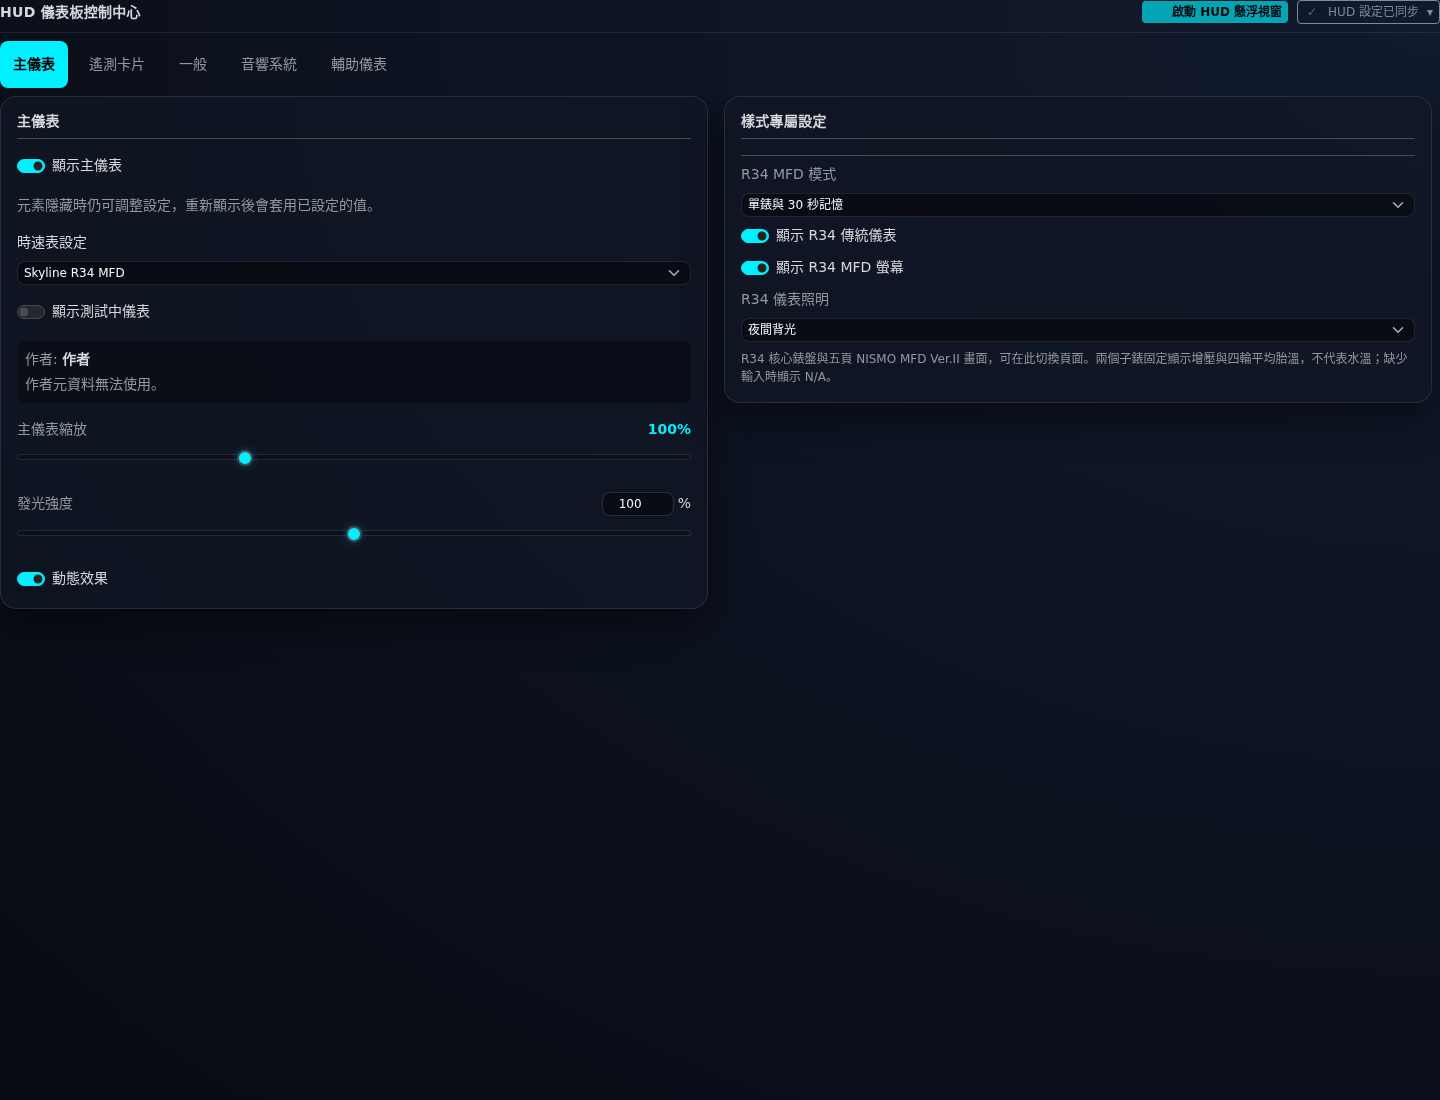
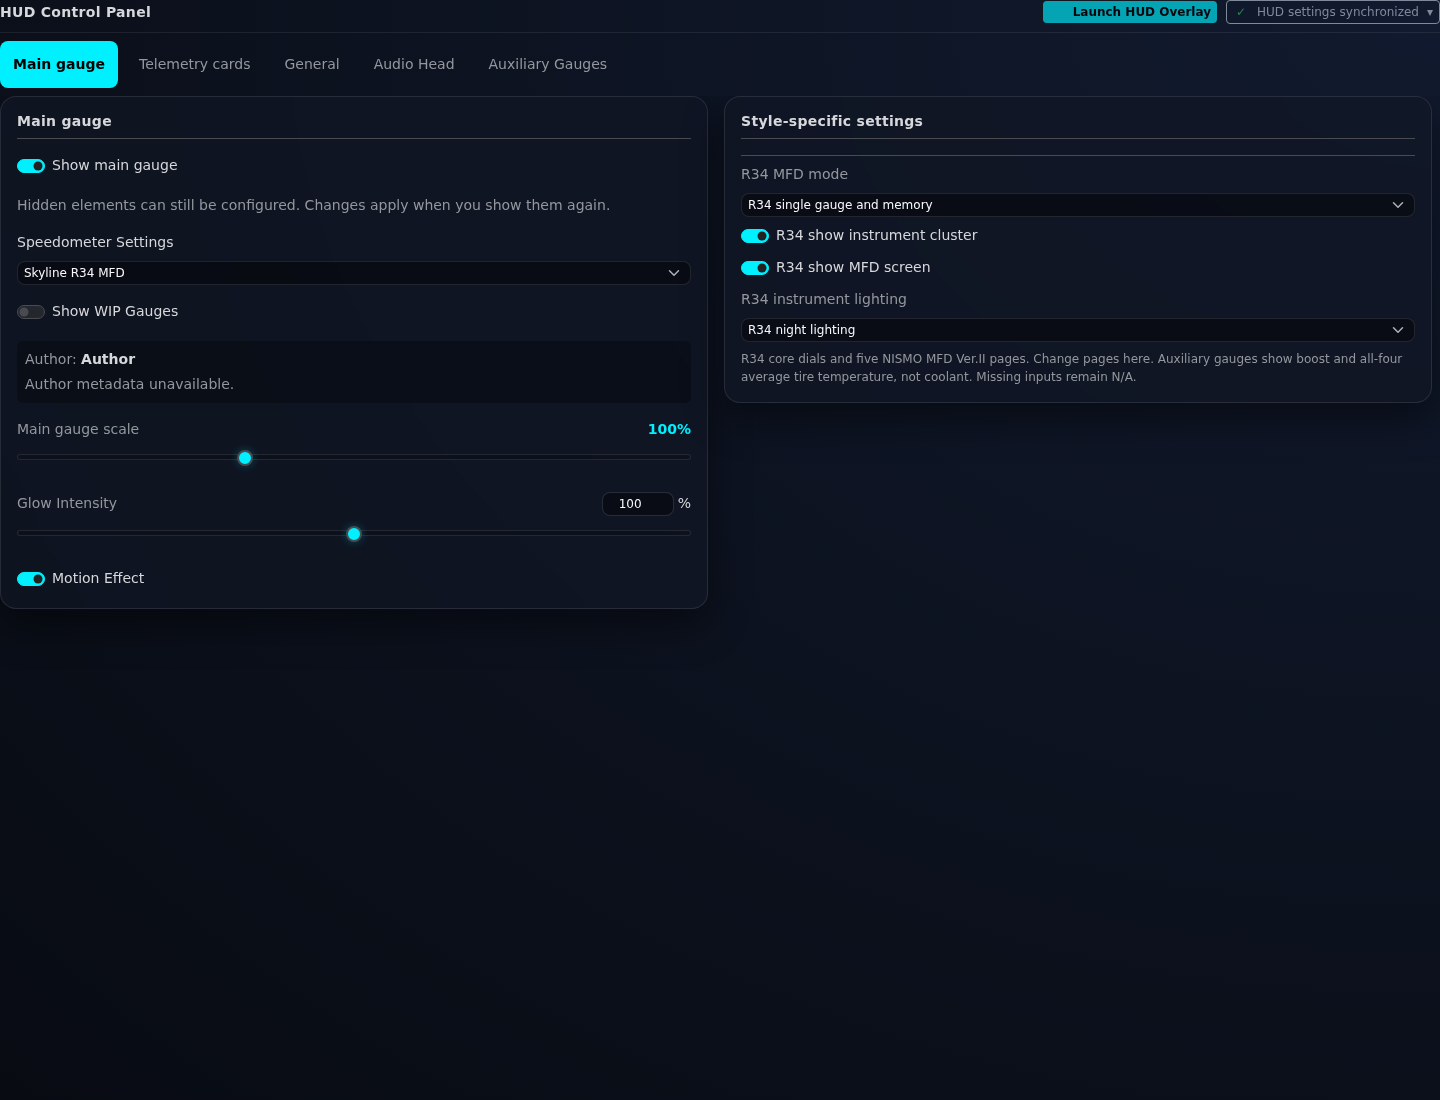
fix(hud): decouple R34 MFD visibility from showCenterInfo with dedicated r34ShowMfd key

diff --git a/hud_overlay/r34_mfd/tests/unit/model.test.ts b/hud_overlay/r34_mfd/tests/unit/model.test.ts
@@ -5,7 +5,7 @@ import { describe, expect, it } from 'vitest';
 // @ts-expect-error Standalone browser JS is tested through its runtime contract.
 import { FrameInterpolator } from '../../../shared/frame-interpolator.js';
 const sandbox: Record<string, any> = {};
-for (const file of ['model.js', 'instruments.js']) runInNewContext(readFileSync(resolve(import.meta.dirname, '../../', file), 'utf8'), sandbox);
+for (const file of ['model.js', 'instruments.js', 'lcd-format.js', 'renderer.js']) runInNewContext(readFileSync(resolve(import.meta.dirname, '../../', file), 'utf8'), sandbox);
 const M = sandbox.R34Model, I = sandbox.R34Instruments;
 const packet = (patch = {}) => ({ TimestampMS: 1000, CarOrdinal: 34, IsRaceOn: 1, CurrentEngineRpm: 6000, EngineMaxRpm: 9000,
   SpeedMetersPerSecond: 50, Gear: 4, Boost: 14.5038, AccelInput: 128, BrakeInput: 0, Fuel: .5,
@@ -428,5 +428,60 @@ describe('R34 dual-LCD unit and independent power channels', () => {
     expect(M.units({ unit: 'mph' }, {}).speed).toBe('mph');
     expect(M.units({ effectiveUnits: { speed: 'kmh' }, unit: 'mph' }, {}).speed).toBe('kmh');
     expect(M.units({ units: { speed: 'invalid' } }, {}).speed).toBe('kmh');
+  });
+});
+
+describe('R34 configuration normalization', () => {
+  it('normalizes r34ShowMfd independently and defaults to true', () => {
+    expect(M.normalizeConfig({})).toEqual({
+      r34MfdMode: 'single',
+      r34ShowCluster: true,
+      r34ShowMfd: true,
+      r34Lighting: 'night',
+    });
+    expect(M.normalizeConfig({ r34ShowMfd: false })).toEqual({
+      r34MfdMode: 'single',
+      r34ShowCluster: true,
+      r34ShowMfd: false,
+      r34Lighting: 'night',
+    });
+    expect(M.normalizeConfig({ r34ShowMfd: 'false' })).toEqual({
+      r34MfdMode: 'single',
+      r34ShowCluster: true,
+      r34ShowMfd: true,
+      r34Lighting: 'night',
+    });
+  });
+
+  it('decouples MFD visibility from elements.showCenterInfo', () => {
+    const r = Object.create(sandbox.R34Renderer.prototype);
+    r.nodes = {
+      r34Container: { dataset: {}, style: { setProperty() {} } },
+      r34Cluster: {},
+      r34Mfd: {},
+      r34ModeTitle: {},
+      r34ModeNote: {},
+      r34TachFace: { style: {} },
+      r34TachNeedle: { style: {} },
+      r34SpeedFace: { style: {} },
+      r34SpeedNeedle: { style: {} },
+      r34DigitalSpeedGroup: { style: {} },
+      r34GearGroup: { style: {} },
+      r34LcdDivider: { style: {} },
+    };
+    r.pages = [];
+    r.updatePalette = () => {};
+
+    // 1. showCenterInfo: false does NOT hide MFD
+    r.configure({ elements: { showCenterInfo: false } });
+    expect(r.nodes.r34Mfd.hidden).toBe(false);
+
+    // 2. r34ShowMfd: false hides MFD even when showCenterInfo is true
+    r.configure({ r34ShowMfd: false, elements: { showCenterInfo: true } });
+    expect(r.nodes.r34Mfd.hidden).toBe(true);
+
+    // 3. r34ShowMfd: true shows MFD even when showCenterInfo is false
+    r.configure({ r34ShowMfd: true, elements: { showCenterInfo: false } });
+    expect(r.nodes.r34Mfd.hidden).toBe(false);
   });
 });

diff --git a/frontend/src/features/overlay_control/r34_mfd/config.test.ts b/frontend/src/features/overlay_control/r34_mfd/config.test.ts
@@ -4,21 +4,24 @@ import { normalizeHudRuntimeConfig, applyHudConfigPatch, createOverlayControlRun
 describe('R34 settings contract', () => {
   it('normalizes only its own style and never coerces string booleans', () => {
     const other = { hudStyle: 'vfd', r34MfdMode: 'future' }; expect(normalizeR34MfdConfig(other)).toBe(other);
-    expect(normalizeR34MfdConfig({ hudStyle: 'r34_mfd', r34ShowCluster: 'false', r34MfdMode: 'bad', r34Lighting: null })).toEqual({
-      hudStyle: 'r34_mfd', r34ShowCluster: true, r34MfdMode: 'single', r34Lighting: 'night',
+    expect(normalizeR34MfdConfig({ hudStyle: 'r34_mfd', r34ShowCluster: 'false', r34ShowMfd: 'false', r34MfdMode: 'bad', r34Lighting: null })).toEqual({
+      hudStyle: 'r34_mfd', r34ShowCluster: true, r34ShowMfd: true, r34MfdMode: 'single', r34Lighting: 'night',
+    });
+    expect(normalizeR34MfdConfig({ hudStyle: 'r34_mfd', r34ShowMfd: false })).toEqual({
+      hudStyle: 'r34_mfd', r34ShowCluster: true, r34ShowMfd: false, r34MfdMode: 'single', r34Lighting: 'night',
     });
   });
   it.each(['single', 'twin', 'multi', 'g', 'lap'])('retains mode %s and unrelated config', mode => {
-    const config = normalizeHudRuntimeConfig({ hudStyle: 'r34_mfd', r34MfdMode: mode, r34ShowCluster: false, r34Lighting: 'day', futureField: 7 });
-    expect(config.r34MfdMode).toBe(mode); expect(config.r34ShowCluster).toBe(false); expect(config.futureField).toBe(7);
+    const config = normalizeHudRuntimeConfig({ hudStyle: 'r34_mfd', r34MfdMode: mode, r34ShowCluster: false, r34ShowMfd: false, r34Lighting: 'day', futureField: 7 });
+    expect(config.r34MfdMode).toBe(mode); expect(config.r34ShowCluster).toBe(false); expect(config.r34ShowMfd).toBe(false); expect(config.futureField).toBe(7);
     expect(applyHudConfigPatch(config, { r34Lighting: 'night' }).r34MfdMode).toBe(mode);
   });
   it('persists and broadcasts the same settings through the real runtime and survives refresh', async () => {
     let saved: any = { hudStyle: 'r34_mfd' }; const messages: any[] = [];
     const runtime = createOverlayControlRuntime({ readConfig: async () => ({ ok: true, json: async () => saved }),
       saveConfig: async value => { saved = structuredClone(value); return { ok: true, json: async () => ({ success: true }) }; } }, { postMessage: value => messages.push(value) });
-    await runtime.refresh(); await runtime.updateConfig({ r34MfdMode: 'lap', r34ShowCluster: false, r34Lighting: 'day' });
-    await runtime.refresh(); expect(saved.r34MfdMode).toBe('lap'); expect(runtime.getSnapshot().config.r34Lighting).toBe('day');
+    await runtime.refresh(); await runtime.updateConfig({ r34MfdMode: 'lap', r34ShowCluster: false, r34ShowMfd: false, r34Lighting: 'day' });
+    await runtime.refresh(); expect(saved.r34MfdMode).toBe('lap'); expect(saved.r34ShowMfd).toBe(false); expect(runtime.getSnapshot().config.r34Lighting).toBe('day');
     expect(JSON.stringify(messages)).toContain('"r34MfdMode":"lap"');
   });
 });

diff --git a/frontend/src/features/overlay_control/r34_mfd/R34MfdSettingsCard.tsx b/frontend/src/features/overlay_control/r34_mfd/R34MfdSettingsCard.tsx
@@ -1,9 +1,9 @@
 import { useId } from 'react';
-import type { HudConfig, HudElements } from '../hudConfig';
+import type { HudConfig } from '../hudConfig';
 import type { HudConfigPatch } from '../overlayControlRuntime';
 import { R34_MFD_MODES, type R34MfdMode, type R34Lighting } from './config';
 export function R34MfdSettingsCard({ config, onChange, t }: {
-  config: Pick<HudConfig, 'r34MfdMode' | 'r34ShowCluster' | 'r34Lighting'> & { elements: Pick<HudElements, 'showCenterInfo'> };
+  config: Pick<HudConfig, 'r34MfdMode' | 'r34ShowCluster' | 'r34ShowMfd' | 'r34Lighting'>;
   onChange: (patch: HudConfigPatch) => void;
   t: (key: string) => string;
 }) {
@@ -20,8 +20,8 @@ export function R34MfdSettingsCard({ config, onChange, t }: {
       <span className="form-check-label fs-7">{t('R34 show instrument cluster')}</span>
     </label>
     <label className="form-check form-switch m-0">
-      <input type="checkbox" className="form-check-input" checked={config.elements.showCenterInfo !== false}
-        onChange={event => onChange({ elements: { showCenterInfo: event.target.checked } })} />
+      <input type="checkbox" className="form-check-input" checked={config.r34ShowMfd !== false}
+        onChange={event => onChange({ r34ShowMfd: event.target.checked })} />
       <span className="form-check-label fs-7">{t('R34 show MFD screen')}</span>
     </label>
     <label htmlFor={`${id}-lighting`} className="form-label fs-7 text-body-secondary mb-0">{t('R34 instrument lighting')}</label>

diff --git a/hud_overlay/r34_mfd/renderer.js b/hud_overlay/r34_mfd/renderer.js
@@ -83,7 +83,9 @@
         var settings = M.normalizeConfig(config), nodes = this.nodes;
         nodes.r34Container.dataset.lighting = settings.r34Lighting;
         nodes.r34Container.dataset.cluster = settings.r34ShowCluster ? 'shown' : 'hidden';
+        nodes.r34Container.dataset.mfd = settings.r34ShowMfd ? 'shown' : 'hidden';
         nodes.r34Cluster.hidden = !settings.r34ShowCluster;
+        nodes.r34Mfd.hidden = !settings.r34ShowMfd;
         if (this.mode !== settings.r34MfdMode) {
             this.mode = settings.r34MfdMode;
             for (var i = 0; i < this.pages.length; i++) this.pages[i].hidden = this.pages[i].dataset.mode !== this.mode;
@@ -94,7 +96,6 @@
         nodes.r34Container.hidden = e.showGauge === false;
         // The full viewport is stationary; each instrument owns its independent anchor.
         nodes.r34Container.style.display = e.showGauge === false ? 'none' : 'block';
-        nodes.r34Mfd.hidden = e.showCenterInfo === false;
         nodes.r34TachFace.hidden = e.showRPM === false;
         nodes.r34TachNeedle.style.display = e.showRPM === false ? 'none' : '';
         nodes.r34SpeedFace.style.display = e.showSpeed === false ? 'none' : '';
@@ -233,4 +234,4 @@
         }
     };
     root.R34Renderer = Renderer;
-})(window);
+})(typeof window !== 'undefined' ? window : globalThis);

diff --git a/frontend/src/features/overlay_control/r34_mfd/config.ts b/frontend/src/features/overlay_control/r34_mfd/config.ts
@@ -8,12 +8,13 @@ export const R34_MFD_MODES = [
 ] as const;
 export type R34MfdMode = (typeof R34_MFD_MODES)[number]['value'];
 export type R34Lighting = 'day' | 'night';
-export function normalizeR34MfdConfig<T extends { hudStyle?: string; r34MfdMode?: unknown; r34ShowCluster?: unknown; r34Lighting?: unknown }>(config: T): T {
+export function normalizeR34MfdConfig<T extends { hudStyle?: string; r34MfdMode?: unknown; r34ShowCluster?: unknown; r34ShowMfd?: unknown; r34Lighting?: unknown }>(config: T): T {
   if (config.hudStyle !== R34_MFD_STYLE_ID) return config;
   return {
     ...config,
     r34MfdMode: R34_MFD_MODES.some(mode => mode.value === config.r34MfdMode) ? config.r34MfdMode : 'single',
     r34ShowCluster: typeof config.r34ShowCluster === 'boolean' ? config.r34ShowCluster : true,
+    r34ShowMfd: typeof config.r34ShowMfd === 'boolean' ? config.r34ShowMfd : true,
     r34Lighting: config.r34Lighting === 'day' ? 'day' : 'night',
   };
 }

diff --git a/frontend/src/features/overlay_control/panels/HudGaugeStyleSettings.tsx b/frontend/src/features/overlay_control/panels/HudGaugeStyleSettings.tsx
@@ -14,7 +14,7 @@ import { S650_HMI_STYLE_ID, S650_HMI_THEMES, S650_CENTER_WIDGETS, type S650HmiTh
 export type HudGaugeStyleConfig = Pick<HudConfig,
   'hudStyle' | 'followAppUnits' | 'units' | 's650Theme' | 's650CenterWidget' |
   'classicJdmTachStyle' | 'classicJdmShowTriple' | 'classicJdmAux1' | 'classicJdmAux2' | 'classicJdmDefiTheme' |
-  'r34MfdMode' | 'r34ShowCluster' | 'r34Lighting' | 'lfaManualExpand' | 'lfaAutoExpand' |
+  'r34MfdMode' | 'r34ShowCluster' | 'r34ShowMfd' | 'r34Lighting' | 'lfaManualExpand' | 'lfaAutoExpand' |
   'vfdVuOffset' | 'vfdAudioOffset' | 'nfsu2Face' | keyof import('../stack_st8100/config').StackSt8100Settings
 > & { elements: Pick<HudElements, 'showCenterInfo'> };
 interface HudGaugeStyleSettingsProps extends HudPanelActions {

diff --git a/frontend/src/features/overlay_control/hudConfig.ts b/frontend/src/features/overlay_control/hudConfig.ts
@@ -55,6 +55,7 @@ export interface HudConfig extends Partial<StackSt8100Settings> {
   classicJdmDefiTheme?: ClassicJdmDefiTheme;
   r34MfdMode?: R34MfdMode;
   r34ShowCluster?: boolean;
+  r34ShowMfd?: boolean;
   r34Lighting?: R34Lighting;
   auxGaugeFaces?: ('aem' | 'greddy' | 'blitz' | 'defi' | 'speedhut')[];
   auxGaugeMaxPerRow?: number;
@@ -130,6 +131,7 @@ export const DEFAULT_HUD_CONFIG: HudConfig = {
   classicJdmDefiTheme: 'amber',
   r34MfdMode: 'single',
   r34ShowCluster: true,
+  r34ShowMfd: true,
   r34Lighting: 'night',
   auxGaugeFaces: ['aem', 'greddy', 'defi'],
   auxGaugeMaxPerRow: 3,

diff --git a/hud_overlay/r34_mfd/model.js b/hud_overlay/r34_mfd/model.js
@@ -10,6 +10,7 @@
         return {
             r34MfdMode: MODES.indexOf(config.r34MfdMode) >= 0 ? config.r34MfdMode : 'single',
             r34ShowCluster: typeof config.r34ShowCluster === 'boolean' ? config.r34ShowCluster : true,
+            r34ShowMfd: typeof config.r34ShowMfd === 'boolean' ? config.r34ShowMfd : true,
             r34Lighting: config.r34Lighting === 'day' ? 'day' : 'night'
         };
     }

diff --git a/backend-rust/tests/config_contract.rs b/backend-rust/tests/config_contract.rs
@@ -637,10 +637,11 @@ fn symlinks_and_dangling_junctions_cannot_escape_storage() {
 
 #[test]
 fn r34_settings_normalize_persist_restart_and_relay_without_touching_other_styles() {
-    let invalid = json!({"hudStyle":"r34_mfd","r34MfdMode":"bad","r34ShowCluster":"false","r34Lighting":12,"futureKey":42});
+    let invalid = json!({"hudStyle":"r34_mfd","r34MfdMode":"bad","r34ShowCluster":"false","r34ShowMfd":"false","r34Lighting":12,"futureKey":42});
     let normalized = config::normalize_hud(&invalid);
     assert_eq!(normalized["r34MfdMode"], "single");
     assert_eq!(normalized["r34ShowCluster"], true);
+    assert_eq!(normalized["r34ShowMfd"], true);
     assert_eq!(normalized["r34Lighting"], "night");
     assert_eq!(normalized["futureKey"], 42);
     let other = json!({"hudStyle":"vfd","r34MfdMode":"future"});
@@ -649,7 +650,7 @@ fn r34_settings_normalize_persist_restart_and_relay_without_touching_other_style
         let directory = tempfile::tempdir().unwrap();
         let service = ConfigService::new(directory.path()).unwrap();
         let mut receiver = service.overlay.subscribe();
-        let requested = json!({"hudStyle":"r34_mfd","r34MfdMode":mode,"r34ShowCluster":false,"r34Lighting":"day","futureKey":42});
+        let requested = json!({"hudStyle":"r34_mfd","r34MfdMode":mode,"r34ShowCluster":false,"r34ShowMfd":false,"r34Lighting":"day","futureKey":42});
         service
             .handle("POST", "/api/overlay/config", &requested)
             .unwrap()
@@ -658,9 +659,11 @@ fn r34_settings_normalize_persist_restart_and_relay_without_touching_other_style
         assert_eq!(relayed["type"], "hud:config");
         assert_eq!(relayed["data"]["r34MfdMode"], mode);
         assert_eq!(relayed["data"]["r34ShowCluster"], false);
+        assert_eq!(relayed["data"]["r34ShowMfd"], false);
         assert_eq!(relayed["data"]["r34Lighting"], "day");
         let persisted = storage::read_json(&directory.path().join("hud_config.json")).unwrap();
         assert_eq!(persisted["r34MfdMode"], mode);
+        assert_eq!(persisted["r34ShowMfd"], false);
         assert_eq!(persisted["futureKey"], 42);
         let restarted = ConfigService::new(directory.path()).unwrap();
         let readback = restarted
@@ -670,6 +673,7 @@ fn r34_settings_normalize_persist_restart_and_relay_without_touching_other_style
         assert_eq!(readback["r34MfdMode"], mode);
         assert_eq!(readback["r34Lighting"], "day");
         assert_eq!(readback["r34ShowCluster"], false);
+        assert_eq!(readback["r34ShowMfd"], false);
     }
 }
 

diff --git a/backend-rust/src/config.rs b/backend-rust/src/config.rs
@@ -361,6 +361,9 @@ pub fn normalize_hud(data: &Value) -> Value {
         if !value["r34ShowCluster"].is_boolean() {
             value["r34ShowCluster"] = json!(true);
         }
+        if !value["r34ShowMfd"].is_boolean() {
+            value["r34ShowMfd"] = json!(true);
+        }
         if !["day", "night"].contains(&value["r34Lighting"].as_str().unwrap_or("")) {
             value["r34Lighting"] = json!("night");
         }

diff --git a/.agents/Journal.md b/.agents/Journal.md
@@ -5,7 +5,7 @@
 - **Scope**：修復 Nissan Skyline GT-R R34 儀表風格（R34 MFD HUD Overlay）之 Tach/Speed 中央 ~350px 誇張黑洞、MFD 靠邊避讓間隙不足、專屬設定卡片缺乏 MFD 螢幕顯隱開關，以及時速表 LCD 顯示 `GN`、`GR`、`G—` 異常前綴等問題。採用 `halfmoon-design-system`、`pr-author-maintainer`、`ui-visual-review`。
 - **Learning**：
   1. **HUD 複合儀表組幾何中心偏移收斂與動態避讓**：在包含主指針表、副儀表與附加多功能螢幕（MFD）的複合 HUD 中，儀表位置計算若將視窗寬度剩餘空間全數灌入中央偏移（`availableOffset`），在 1080p 等標準視窗下會使 Tachometer 與 Speedometer 之間拉開超過 350px 的不自然空洞。解法是建立自然的基礎表距偏移（`minOffsetBase = 136`, `preferredOffsetBase = 146`），並收斂右側外邊距（`screenMarginX = 8~14px`），使 MFD 在不超出螢幕空間的前提下自然靠邊，同時以夾限運算保證右側 Boost 增壓表與 MFD 螢幕之間擁有 >100px 的安全淨空。
-  2. **專屬 HUD 子模組開關與全域 elements 相容性**：R34 MFD 的螢幕本體在模型層由 `elements.showCenterInfo` 控制，但在 `R34MfdSettingsCard.tsx` 中原先僅提供指針表（`r34ShowCluster`）開關。當使用者在其他介面誤觸全域 central info 關閉後，R34 MFD 螢幕會消失且無從單獨復原。在專屬卡片中加入 `R34 show MFD screen` 切換項並直接 patch `elements: { showCenterInfo }`，既提供了專屬的開關體驗，又避免了修改後端 Rust 結構體或破壞既有持久化契約。
+  2. **專屬 HUD 子模組開關與全域 elements 解耦**：原先 R34 MFD 螢幕借用全域 `elements.showCenterInfo` 作為顯隱判斷，導致若在其他通用介面關閉中央資訊，R34 MFD 螢幕會連帶遭到隱藏。經使用者指示，將 MFD 螢幕狀態與 `showCenterInfo` 完全解耦，引進專屬的 `r34ShowMfd` 配置鍵，並於 Rust 後端、前端 `HudConfig`、`normalizeR34MfdConfig` 及 overlay `renderer.configure` 中將 MFD 顯隱改由 `r34ShowMfd` 獨立控制，徹底杜絕 `showCenterInfo` 對 MFD 渲染的任何副作用。
   3. **數位液晶檔位前綴之語義分離**：JDM 液晶時速表中的「G」字元代表 Gear，但空檔（`N`）、倒檔（`R`）以及未讀取狀態（`—`）具有全字語意，若直接固定拼裝會產生 `GN`、`GR`、`G—` 等混淆讀數。在 SVG 模板中將 prefix 拆為專屬 `<tspan id="r34GearPrefix">`，並在渲染邏輯中僅對正則匹配 `^[1-9][0-9]?$` 之數值前進檔給予 `G` 前綴，其餘狀態清空，達成兼顧 SVG 文字置中對齊與動態語義正確。
 - **Evidence**：
   - PR `#649`：`fix(hud): resolve R34 MFD layout void and gauge rendering issues`。
